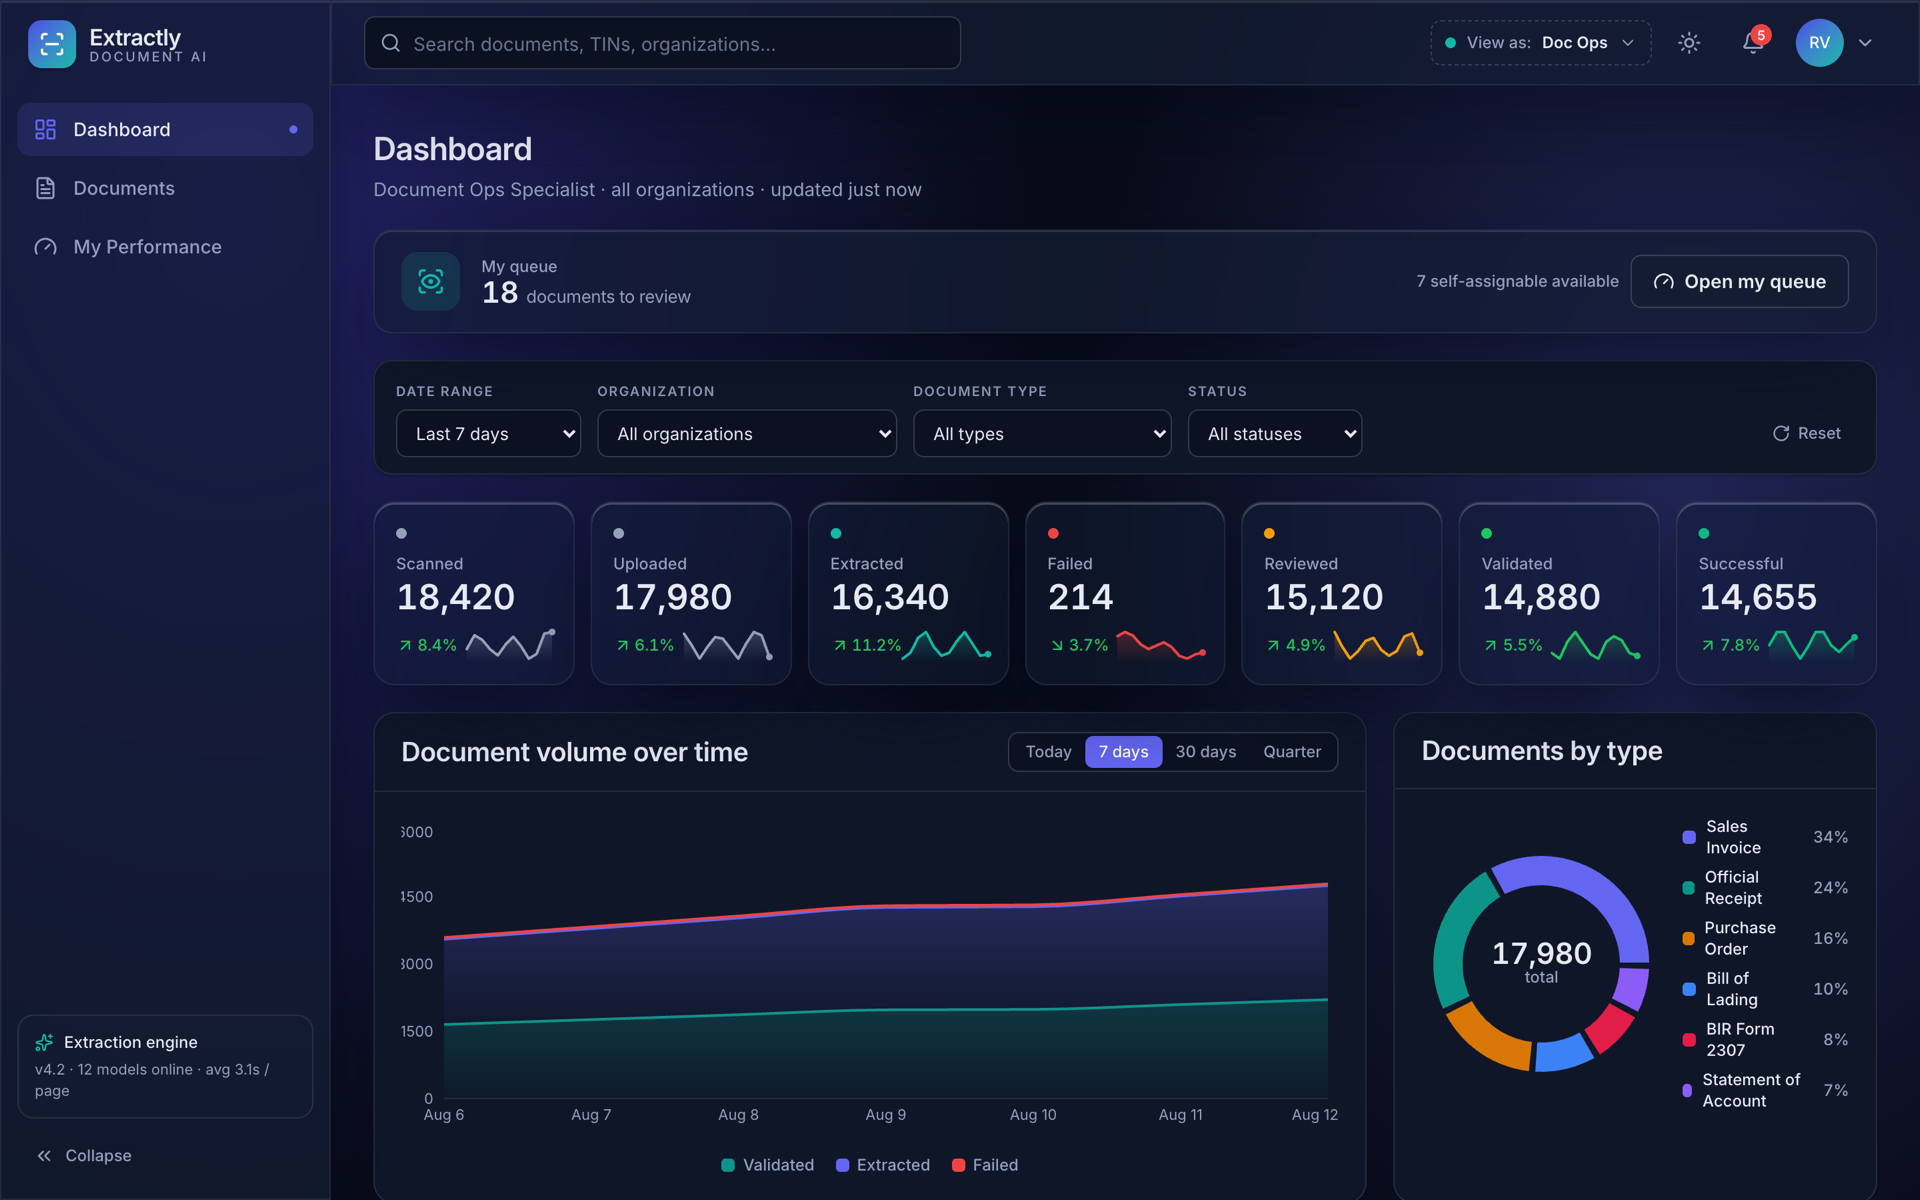
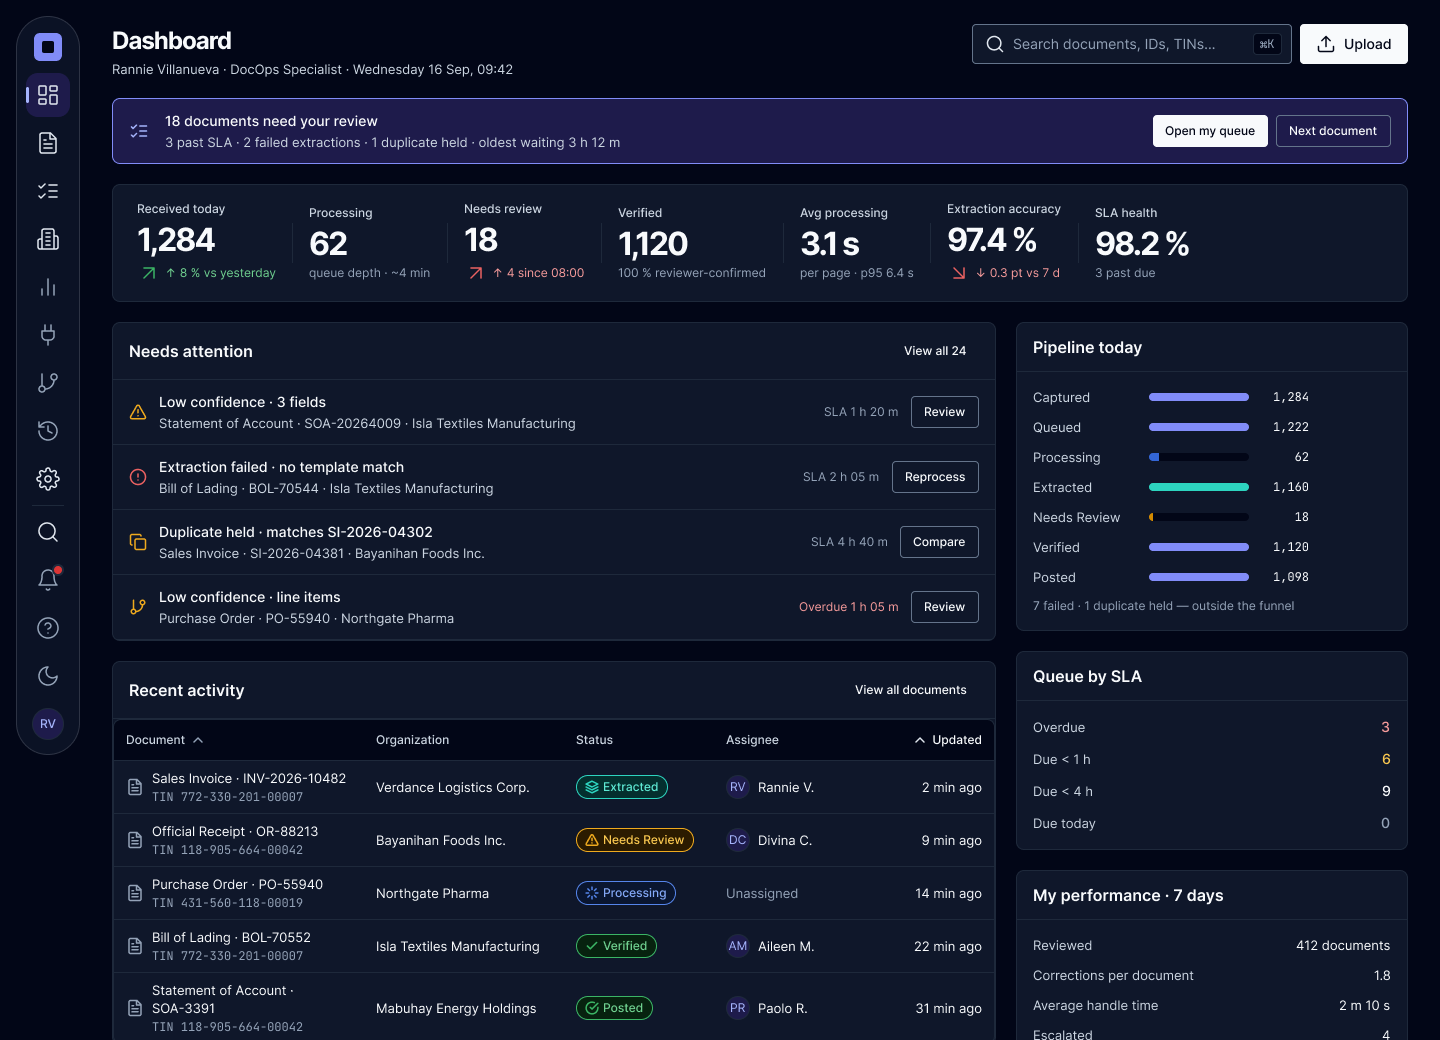
Update Extractly case study and add MT Design v2

diff --git a/apps/portfolio/components/design-system/mt-design-overview.tsx b/apps/portfolio/components/design-system/mt-design-overview.tsx
@@ -1,0 +1,183 @@
+import Image from "next/image";
+import { ArrowUpRight, Boxes, Component, Frame, ShieldCheck } from "lucide-react";
+import { Container } from "@/components/layout/container";
+import { ButtonLink } from "@/components/ui/button";
+
+const FIGMA_URL =
+  "https://www.figma.com/design/SPT1RGg952RBTxsnzJmUM2/MT-Design?node-id=0-1&t=BamXxuCBKYWUTQ5O-1";
+
+const coverage = [
+  {
+    icon: Boxes,
+    title: "Foundations",
+    detail: "Colour, type, spacing, shape, elevation, layout, motion, iconography, and interaction.",
+  },
+  {
+    icon: Component,
+    title: "Components",
+    detail: "A production-minded library with documented anatomy, states, density, and usage rules.",
+  },
+  {
+    icon: Frame,
+    title: "Patterns & templates",
+    detail: "Forms, data tables, search, notifications, confirmation flows, and responsive app shells.",
+  },
+  {
+    icon: ShieldCheck,
+    title: "Accessibility",
+    detail: "WCAG 2.2 AA guidance for contrast, focus, keyboard paths, targets, structure, and motion.",
+  },
+];
+
+const previews = [
+  {
+    src: "/images/design-system/mt-design-color.png",
+    alt: "MT Design colour foundations showing primitive ramps, semantic roles, rules, and usage examples",
+    title: "Semantic colour",
+    description: "Brand-neutral surfaces, restrained accents, and feedback colours that keep their meaning in both themes.",
+    width: 623,
+    height: 1568,
+  },
+  {
+    src: "/images/design-system/mt-design-typography.png",
+    alt: "MT Design typography foundations showing font roles, type scale, specifications, and rules",
+    title: "Purposeful type",
+    description: "Inter carries product UI, Space Grotesk adds selective display contrast, and JetBrains Mono handles machine-readable content.",
+    width: 766,
+    height: 1568,
+  },
+  {
+    src: "/images/design-system/mt-design-template.png",
+    alt: "MT Design desktop application shell with navigation, tabs, actions, and a data table",
+    title: "System in use",
+    description: "A responsive shell demonstrates how foundations and components compose into dense, calm operational software.",
+    width: 1440,
+    height: 900,
+  },
+  {
+    src: "/images/design-system/mt-design-accessibility.png",
+    alt: "MT Design accessibility documentation covering contrast, focus, keyboard use, targets, errors, and screen readers",
+    title: "Accessibility as a baseline",
+    description: "The library records testable decisions so teams can review a screen without rediscovering the standard each time.",
+    width: 479,
+    height: 1568,
+  },
+];
+
+export function MtDesignOverview() {
+  return (
+    <Container className="py-12 sm:py-16">
+      <div className="grid gap-10 border-b border-border-default pb-12 lg:grid-cols-[minmax(0,1fr)_320px] lg:items-start">
+        <div className="max-w-3xl">
+          <p className="text-body-sm font-medium text-action-primary">MT Design · version 0.6.0</p>
+          <h2 className="mt-3 max-w-2xl font-display text-h1 font-bold text-text-primary">
+            A parent system for product teams, not a finished product skin.
+          </h2>
+          <p className="mt-5 max-w-2xl text-body-lg text-text-secondary">
+            MT Design is a brand-neutral, inheritable design system for web, desktop, and mobile products. It gives
+            each product shared foundations, a tokenised theme model, contribution rules, and a compact set of
+            components without erasing product-specific decisions.
+          </p>
+          <ButtonLink href={FIGMA_URL} target="_blank" rel="noreferrer" className="mt-7" size="md">
+            Open MT Design in Figma
+            <ArrowUpRight aria-hidden="true" className="size-4" />
+          </ButtonLink>
+        </div>
+
+        <figure className="overflow-hidden rounded-card border border-border-default bg-background-surface">
+          <Image
+            src="/images/design-system/mt-design-readme.png"
+            alt="MT Design read-me documentation with purpose, principles, conventions, contribution rules, and release guidance"
+            width={616}
+            height={1568}
+            className="h-auto w-full"
+            sizes="(max-width: 1024px) 100vw, 320px"
+            priority
+          />
+          <figcaption className="border-t border-border-default p-4 text-caption text-text-secondary">
+            The library documents how it should be inherited, changed, reviewed, and deprecated.
+          </figcaption>
+        </figure>
+      </div>
+
+      <section aria-labelledby="mt-design-coverage" className="py-12 sm:py-16">
+        <div className="max-w-2xl">
+          <h3 id="mt-design-coverage" className="font-display text-h2 font-bold text-text-primary">
+            What the system covers
+          </h3>
+          <p className="mt-3 text-body text-text-secondary">
+            The Figma library is organised as a working product-design toolkit, from decisions and variables through
+            reusable screen structures.
+          </p>
+        </div>
+        <div className="mt-8 grid gap-px overflow-hidden rounded-card border border-border-default bg-border-default sm:grid-cols-2 lg:grid-cols-4">
+          {coverage.map(({ icon: Icon, title, detail }) => (
+            <article key={title} className="bg-background-surface p-6">
+              <Icon aria-hidden="true" className="size-5 text-action-primary" strokeWidth={1.75} />
+              <h4 className="mt-5 font-display text-h4 font-semibold text-text-primary">{title}</h4>
+              <p className="mt-2 text-body-sm text-text-secondary">{detail}</p>
+            </article>
+          ))}
+        </div>
+      </section>
+
+      <section aria-labelledby="mt-design-principles" className="border-t border-border-default py-12 sm:py-16">
+        <div className="grid gap-8 lg:grid-cols-[280px_minmax(0,1fr)]">
+          <div>
+            <h3 id="mt-design-principles" className="font-display text-h2 font-bold text-text-primary">
+              The decisions behind it
+            </h3>
+            <p className="mt-3 text-body text-text-secondary">
+              Four constraints keep the system useful as it grows.
+            </p>
+          </div>
+          <ol className="grid gap-6 sm:grid-cols-2">
+            {[
+              ["Calm by default", "Neutral surfaces carry the interface. Colour appears when it communicates action, selection, or feedback."],
+              ["Hierarchy through craft", "Weight, spacing, contrast, and alignment establish order before decoration does."],
+              ["Every state is designed", "Components are incomplete until hover, focus, disabled, loading, empty, and error states are resolved."],
+              ["Dense without becoming cramped", "Compact layouts still preserve touch targets, keyboard access, and readable content."],
+            ].map(([title, detail], index) => (
+              <li key={title} className="border-t border-border-strong pt-4">
+                <span className="text-caption text-text-tertiary">{String(index + 1).padStart(2, "0")}</span>
+                <h4 className="mt-2 font-display text-h4 font-semibold text-text-primary">{title}</h4>
+                <p className="mt-2 text-body-sm text-text-secondary">{detail}</p>
+              </li>
+            ))}
+          </ol>
+        </div>
+      </section>
+
+      <section aria-labelledby="mt-design-previews" className="border-t border-border-default py-12 sm:py-16">
+        <div className="max-w-2xl">
+          <h3 id="mt-design-previews" className="font-display text-h2 font-bold text-text-primary">
+            Inside the Figma library
+          </h3>
+          <p className="mt-3 text-body text-text-secondary">
+            Selected pages from the current source document. The Figma file remains the editable source of truth.
+          </p>
+        </div>
+        <div className="mt-8 grid gap-8 lg:grid-cols-2">
+          {previews.map((preview) => (
+            <figure key={preview.title} className="overflow-hidden rounded-card border border-border-default bg-background-surface">
+              <div className="max-h-[680px] overflow-hidden border-b border-border-default bg-white">
+                <Image
+                  src={preview.src}
+                  alt={preview.alt}
+                  width={preview.width}
+                  height={preview.height}
+                  className="h-auto w-full object-top"
+                  sizes="(max-width: 1024px) 100vw, 50vw"
+                />
+              </div>
+              <figcaption className="p-5">
+                <h4 className="font-display text-h4 font-semibold text-text-primary">{preview.title}</h4>
+                <p className="mt-2 text-body-sm text-text-secondary">{preview.description}</p>
+              </figcaption>
+            </figure>
+          ))}
+        </div>
+      </section>
+    </Container>
+  );
+}

diff --git a/apps/portfolio/lib/projects-data.ts b/apps/portfolio/lib/projects-data.ts
@@ -39,52 +39,53 @@ export const caseStudies: CaseStudy[] = [
     category: "AI Products",
     tools: ["Figma", "FigJam", "Dovetail", "Linear"],
     summary:
-      "A document-AI console for high-volume financial paperwork. It shows reviewers how sure the model is, so they verify instead of retype.",
-    coverLabel: "Extractly dashboard — document volume, throughput, and status mix",
+      "A document-operations platform that turns high-volume financial paperwork into reviewable, policy-aware work across intake, extraction, exceptions, and posting.",
+    coverLabel: "Extractly operations dashboard — queue health, pipeline status, and work that needs attention",
     cover: `${EXTRACTLY}/dashboard-light.png`,
     coverDark: `${EXTRACTLY}/dashboard.png`,
     tone: 3,
     featured: true,
     problem: [
-      "Extractly is a sanitised stand-in for a client engagement. The company and the data are fictional. The design problem is real.",
-      "Back-office teams were processing thousands of invoices, receipts, purchase orders, and BIR forms by hand, re-keying every field into another system. It was slow, hard to audit, and one mistyped TIN could cascade into a compliance problem.",
-      "The automation already existed. People just didn't trust it. So the real problem was not accuracy but legibility: reviewers had to see how sure the model was before they would sign off.",
+      "Extractly is a sanitized, NDA-safe reconstruction of a client engagement. Company names, real data, and proprietary flows have been replaced with a fictional stand-in that preserves the design problem and the decisions behind it.",
+      "Back-office teams were processing thousands of financial and tax documents a month almost entirely by hand: reading scanned invoices, receipts, purchase orders, and BIR forms, then re-keying every field into downstream systems. It was slow and hard to audit, and one mistyped TIN or amount could cascade into reconciliation and compliance problems.",
+      "The automation already existed. People just didn't trust it. So the real design problem was legibility and control: show what the model knows, explain why a field needs attention, and make every human decision traceable from intake through posting.",
     ],
     process: [
       {
-        heading: "Mapping the review workflow",
-        body: "I shadowed reviewers and watched where they slowed down: second-guessing a value, dropping out to a spreadsheet, re-checking a field the model had already got right. People didn't distrust automation. They distrusted unlabelled automation. So the worklist became the anchor, a queue filtered by status, confidence, and assignee.",
-        imageLabel: "Extractly documents worklist with status and confidence filters",
+        heading: "Designing the operating queue",
+        body: "I mapped the product around the decisions operators make before opening a document: what is waiting, why it stopped, who owns it, and how close it is to breaching an SLA. Saved views, layered filters, bulk actions, confidence signals, and intake states turn the documents table into an operating queue rather than a passive archive.",
+        imageLabel: "Extractly document queue with saved views, layered filters, bulk actions, and confidence states",
         image: `${EXTRACTLY}/documents-light.png`,
         imageDark: `${EXTRACTLY}/documents.png`,
       },
       {
-        heading: "Designing for confidence",
-        body: "The review screen puts the document beside its extracted fields, and every field carries a confidence score. Low-confidence fields are flagged and counted, and one control jumps straight to the next one. A full re-read becomes a targeted pass.",
-        imageLabel: "Extractly review screen — document beside confidence-scored fields",
+        heading: "Explaining why review is needed",
+        body: "The review workspace keeps the source, extracted fields, business rules, and audit context in one place. Reviewers can jump directly to fields that require attention, see the model value beside its normalised result, and understand the policy behind a warning before they confirm or correct it. Duplicate handling, reprocessing, comments, and escalation stay inside the same task flow.",
+        imageLabel: "Extractly review workspace with source document, explainable field checks, rules, and activity",
         image: `${EXTRACTLY}/review-light.png`,
         imageDark: `${EXTRACTLY}/review.png`,
       },
       {
-        heading: "Closing the loop with reviewers",
-        body: "Repetitive QA is easy to burn out on, so reviewers get a view of their own accuracy, turnaround, and streaks. It makes the work measurable instead of faceless, and it shows leads where the model still needs help.",
-        imageLabel: "Extractly My Performance — accuracy and turnaround over time",
+        heading: "Making quality operational",
+        body: "Analytics were expanded from personal performance into a shared quality view. Leads can compare first-pass verification, exception mix, queue age, reviewer throughput, document-type accuracy, and SLA health without exporting the work to a spreadsheet. The same language and status model carry from the dashboard into each drill-down.",
+        imageLabel: "Extractly analytics overview with quality, exception, queue-age, and reviewer signals",
         image: `${EXTRACTLY}/performance-light.png`,
         imageDark: `${EXTRACTLY}/performance.png`,
       },
     ],
     solution: {
-      body: "One idea runs through the console: surface the model's confidence, then send human attention where it is needed. Documents move from upload to extraction to review, triage decides what a person sees first, and a shared dashboard keeps volume and throughput visible to the team.",
+      body: "The result is a connected document-operations workspace. Intake catches failures and duplicates early; the queue routes work by status, confidence, ownership, and SLA; the review workspace pairs evidence with policy; and analytics help leads improve the system instead of merely counting completed documents. Client-facing exception and approval flows extend the same model beyond the internal operations team.",
       gallery: [
         {
           label: "Extractly dashboard",
-          caption: "The control room: volume over time, status breakdown, and document mix, with drill-downs into any status.",
+          caption:
+            "The operations control room brings urgent work, pipeline health, recent activity, SLA risk, and each reviewer's next action into one scan.",
           image: `${EXTRACTLY}/dashboard-light.png`,
           imageDark: `${EXTRACTLY}/dashboard.png`,
         },
         {
           label: "Extractly sign-in",
-          caption: "A calm first impression. The console leads with clarity from the login screen in.",
+          caption: "A restrained, enterprise-ready entry point with password and single sign-on paths for connected organisations.",
           image: `${EXTRACTLY}/login-light.png`,
           imageDark: `${EXTRACTLY}/login.png`,
         },
@@ -92,12 +93,7 @@ export const caseStudies: CaseStudy[] = [
     },
     outcome: {
       summary:
-        "Extractly turns data entry into review. People validate instead of retype, and leads get a live picture of quality. The figures below are design targets in this sanitised version, not client results.",
-      metrics: [
-        { label: "financial document types", value: "6" },
-        { label: "confidence-based review tiers", value: "3" },
-        { label: "field-accuracy target", value: "98%+" },
-      ],
+        "The redesigned product gives operators a clearer path from intake to resolution. Reviewers can focus on the fields and exceptions that genuinely need judgement, understand the rule behind each warning, and resolve work without switching tools. Leads gain a shared view of queue health, quality, and process friction, while client approvers receive focused decisions instead of internal operational noise. The qualitative result is a system that makes automation easier to trust because its limits, evidence, and handoffs remain visible.",
     },
   },
   {

diff --git a/apps/portfolio/app/design-system/page.tsx b/apps/portfolio/app/design-system/page.tsx
@@ -7,6 +7,8 @@ import { TypeSection } from "@/components/design-system/type-section";
 import { SpacingSection } from "@/components/design-system/spacing-section";
 import { ComponentLibrary } from "@/components/design-system/component-library";
 import { COMPONENT_TOC, slugify } from "@/components/design-system/component-toc";
+import { DesignSystemTabs } from "@/components/design-system/design-system-tabs";
+import { MtDesignOverview } from "@/components/design-system/mt-design-overview";
 
 export const metadata: Metadata = {
   title: "Design System — Mernel Tusoy",
@@ -66,18 +68,9 @@ function DesignSystemNav() {
   );
 }
 
-export default function DesignSystemPage() {
+function PortfolioDesignSystem() {
   return (
-    <>
-      <Section className="border-b border-border-default pb-10 pt-16 sm:pt-20">
-        <SectionHeading
-          eyebrow="Design system"
-          title="Tokens & components"
-          description="These are the actual tokens and components this site runs on. Every swatch, scale, and specimen below is live-rendered from the same @mt/tokens, never a screenshot."
-        />
-      </Section>
-
-      <Container className="py-12 sm:py-16 lg:grid lg:grid-cols-[210px_minmax(0,1fr)] lg:gap-12">
+    <Container className="py-12 sm:py-16 lg:grid lg:grid-cols-[210px_minmax(0,1fr)] lg:gap-12">
         <DesignSystemNav />
 
         <div className="min-w-0 space-y-16">
@@ -121,7 +114,22 @@ export default function DesignSystemPage() {
             </div>
           </section>
         </div>
-      </Container>
+    </Container>
+  );
+}
+
+export default function DesignSystemPage() {
+  return (
+    <>
+      <Section className="border-b border-border-default pb-10 pt-16 sm:pt-20">
+        <SectionHeading
+          eyebrow="Design systems"
+          title="Systems that scale with the product"
+          description="Compare the live system behind this portfolio with broader libraries designed for product teams. Each version keeps its own purpose, rules, and source of truth."
+        />
+      </Section>
+
+      <DesignSystemTabs portfolioSystem={<PortfolioDesignSystem />} mtDesign={<MtDesignOverview />} />
     </>
   );
 }

diff --git a/apps/portfolio/components/design-system/design-system-tabs.tsx b/apps/portfolio/components/design-system/design-system-tabs.tsx
@@ -1,0 +1,42 @@
+"use client";
+
+import type { ReactNode } from "react";
+import { Tabs, TabsContent, TabsList, TabsTrigger } from "@/components/ui/tabs";
+
+export function DesignSystemTabs({
+  portfolioSystem,
+  mtDesign,
+}: {
+  portfolioSystem: ReactNode;
+  mtDesign: ReactNode;
+}) {
+  return (
+    <Tabs defaultValue="portfolio" className="w-full">
+      <div className="border-b border-border-default bg-background-canvas">
+        <div className="mx-auto max-w-6xl px-4 sm:px-6 lg:px-8">
+          <TabsList aria-label="Design system versions" className="w-full justify-start gap-6 border-0">
+            <TabsTrigger value="portfolio" className="px-0 py-4 sm:py-5">
+              <span className="flex items-baseline gap-2">
+                Portfolio UI
+                <span className="text-caption font-normal text-text-tertiary">v1</span>
+              </span>
+            </TabsTrigger>
+            <TabsTrigger value="mt-design" className="px-0 py-4 sm:py-5">
+              <span className="flex items-baseline gap-2">
+                MT Design
+                <span className="text-caption font-normal text-text-tertiary">v2</span>
+              </span>
+            </TabsTrigger>
+          </TabsList>
+        </div>
+      </div>
+
+      <TabsContent value="portfolio" className="mt-0 outline-none">
+        {portfolioSystem}
+      </TabsContent>
+      <TabsContent value="mt-design" className="mt-0 outline-none">
+        {mtDesign}
+      </TabsContent>
+    </Tabs>
+  );
+}
